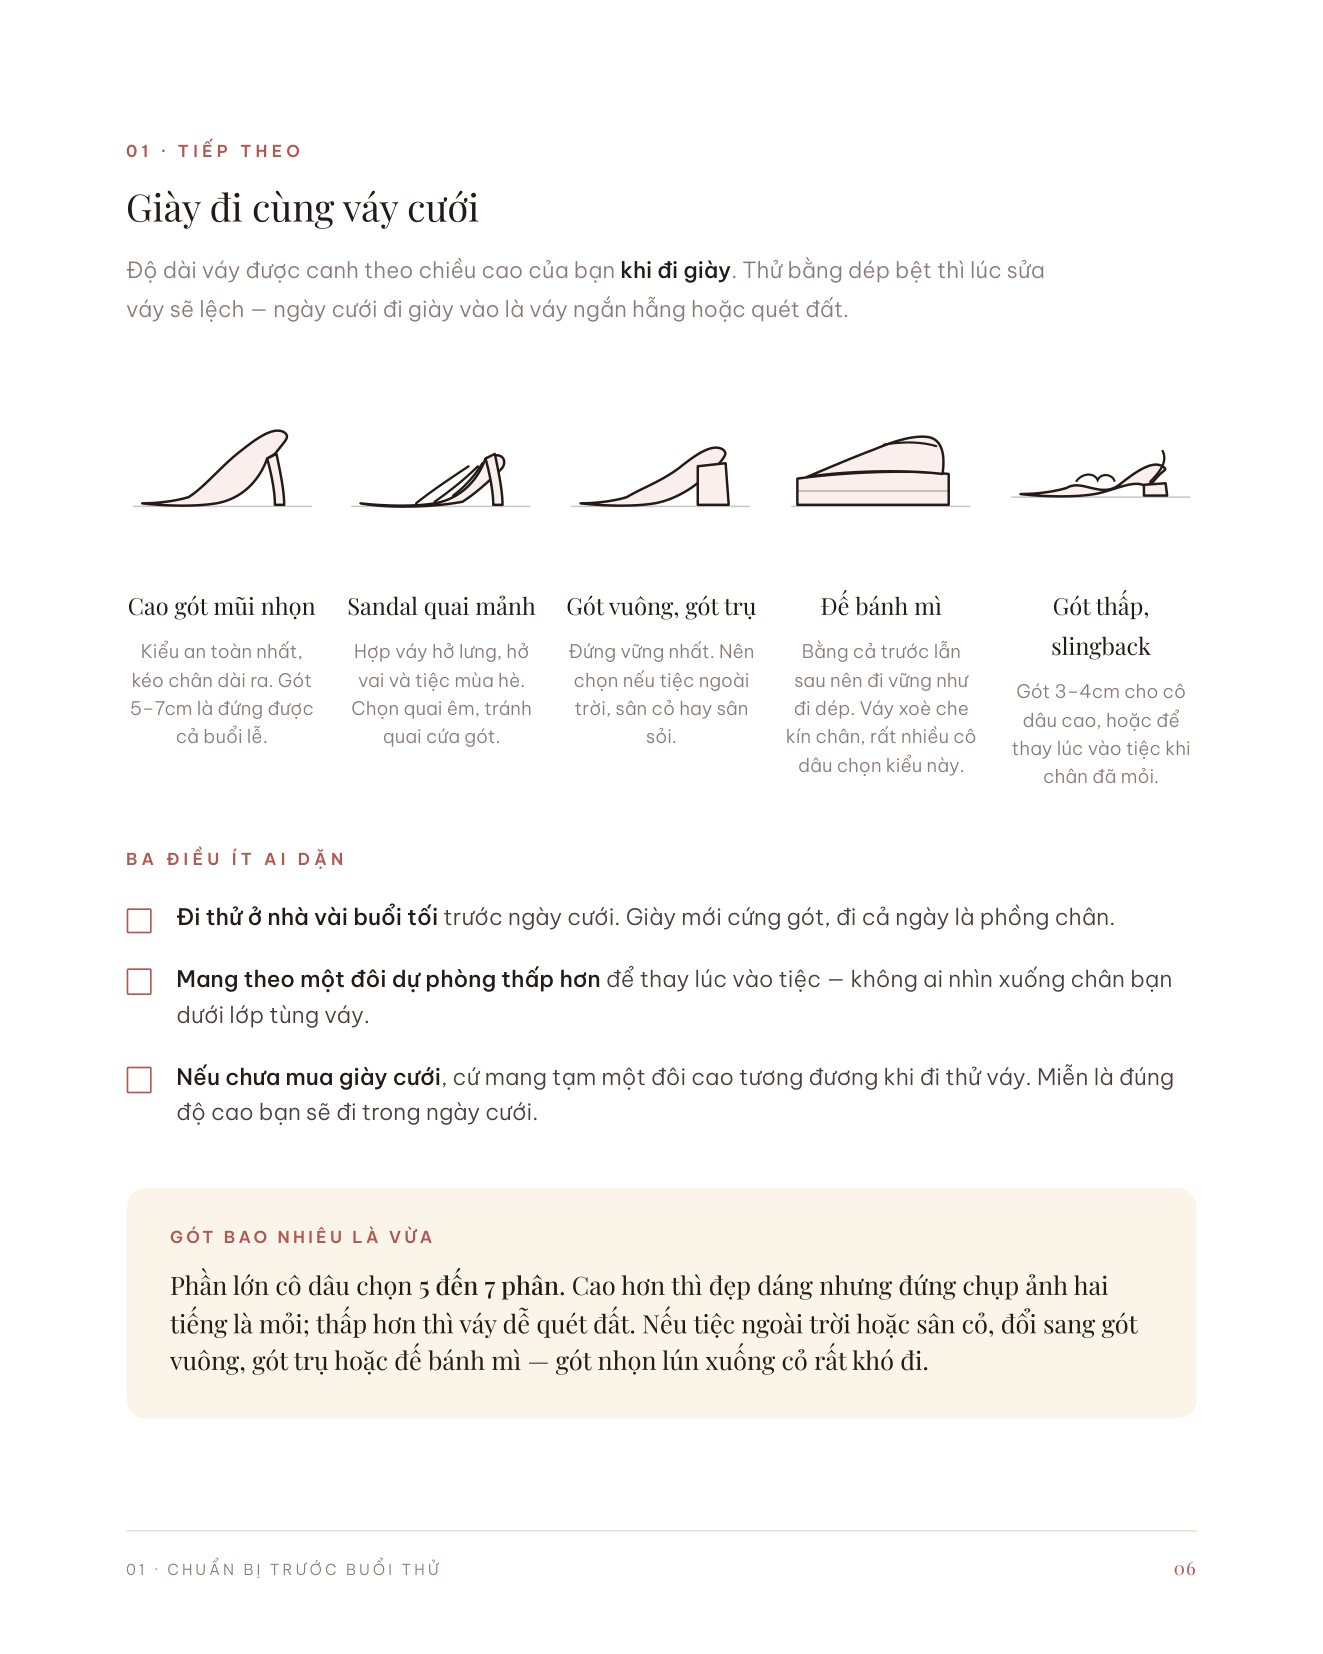
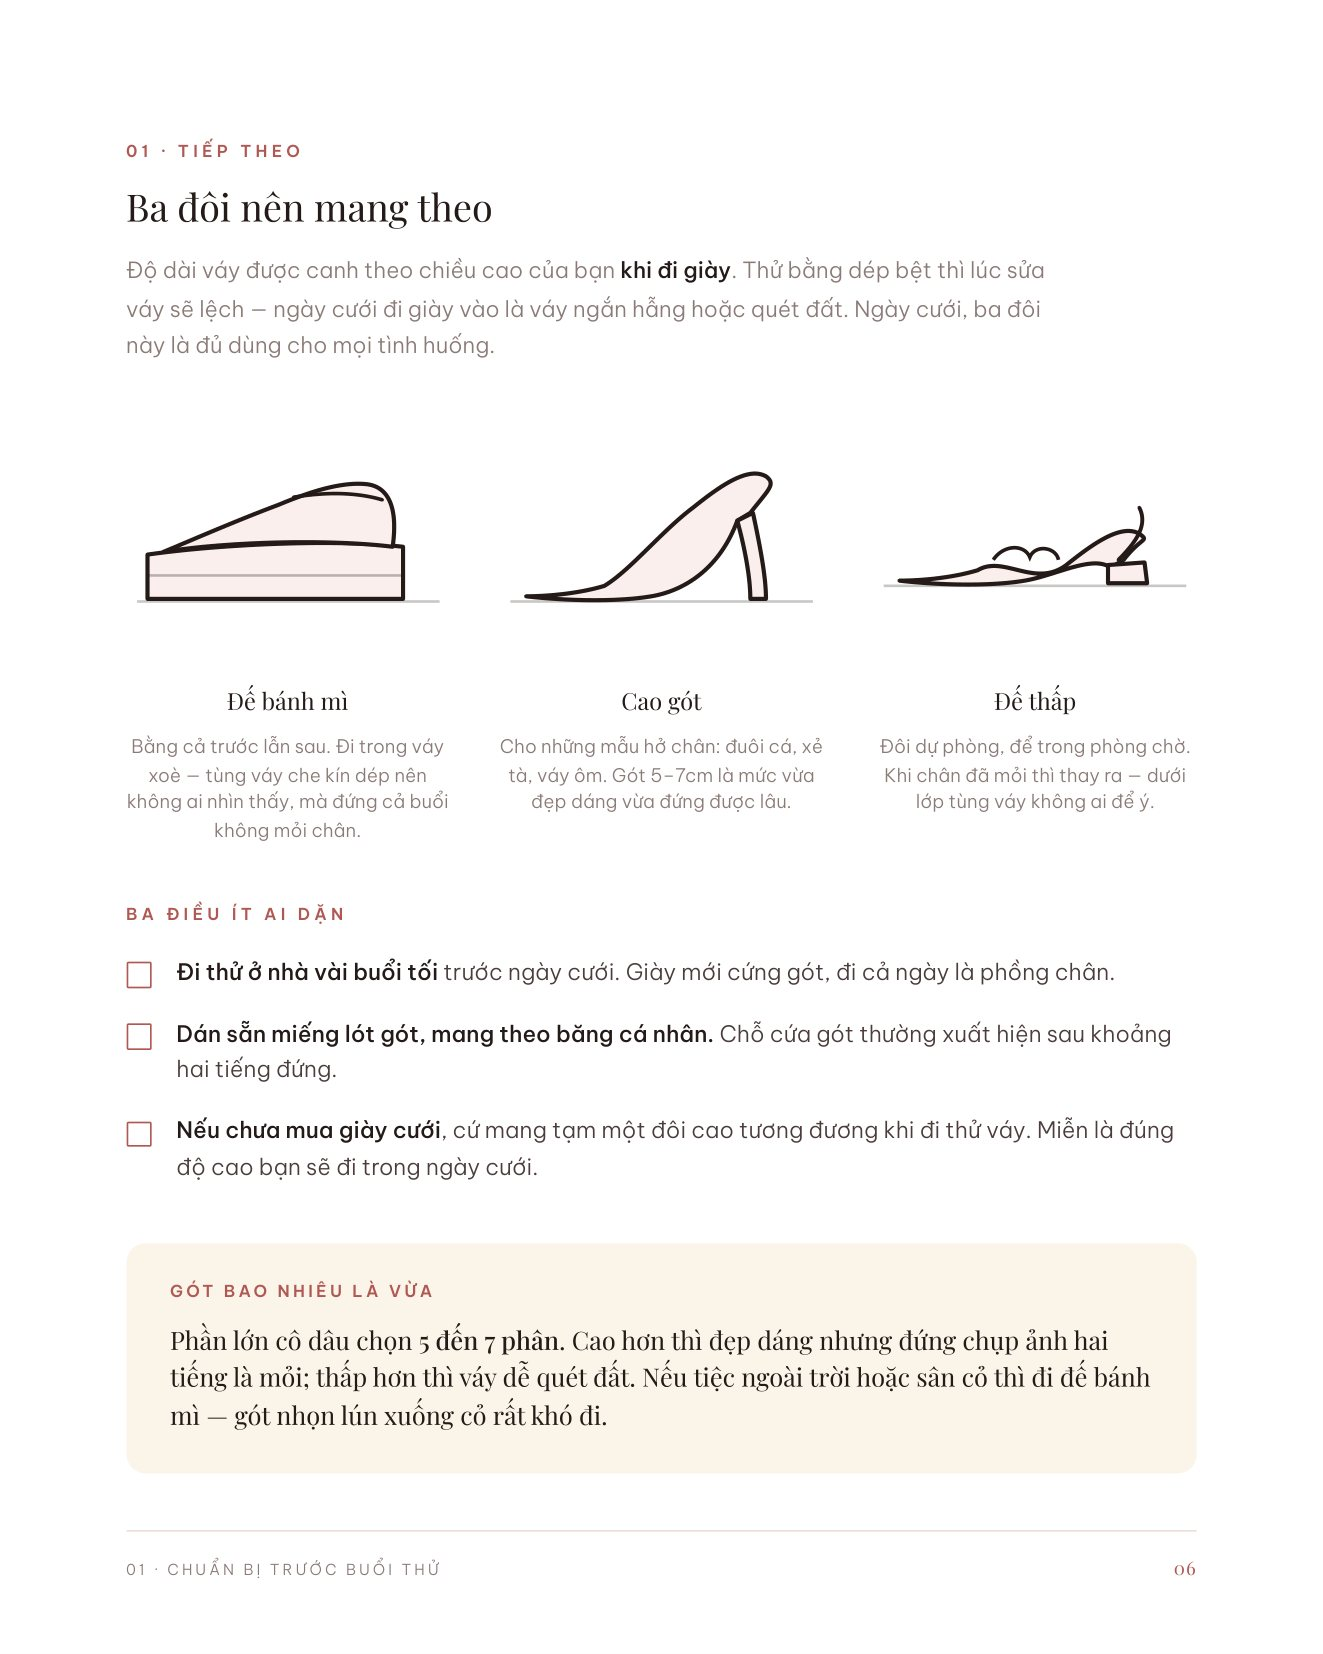
Dress Guide: rut con 3 doi giay theo dung cong dung chi Linh chot

diff --git a/dress-guide.html b/dress-guide.html
@@ -4,7 +4,7 @@
 <meta charset="utf-8">
 <meta name="viewport" content="width=device-width,initial-scale=1">
 <meta name="description" content="Cẩm nang tặng cô dâu: 7 điều cần biết trước khi chọn váy cưới — Dolinhanh Bridal.">
-<script>window.__ANH__=["dress-guide/t01.jpg?v=w5", "dress-guide/t02.jpg?v=w5", "dress-guide/t03.jpg?v=w5", "dress-guide/t04.jpg?v=w5", "dress-guide/t05.jpg?v=w5", "dress-guide/t06.jpg?v=w5", "dress-guide/t07.jpg?v=w5", "dress-guide/t08.jpg?v=w5", "dress-guide/t09.jpg?v=w5", "dress-guide/t10.jpg?v=w5", "dress-guide/t11.jpg?v=w5", "dress-guide/t12.jpg?v=w5", "dress-guide/t13.jpg?v=w5", "dress-guide/t14.jpg?v=w5", "dress-guide/t15.jpg?v=w5", "dress-guide/t16.jpg?v=w5", "dress-guide/t17.jpg?v=w5", "dress-guide/t18.jpg?v=w5", "dress-guide/t19.jpg?v=w5", "dress-guide/t20.jpg?v=w5"];window.__DIEM__=[{"p": 4, "x": 0.1734, "y": 0.205, "w": 0.1416, "h": 0.0173, "nhan": "Chuẩn bị trước buổi thử", "ten": "Đồ lót nào mặc được?", "mo": "Nguyên tắc chung: màu nude, không quai, không gọng to, không đường viền. Bốn kiểu trong hình đều dùng được cho gần như mọi mẫu váy. Phần lớn váy cưới đã có corset nâng và mút đệm ngực khâu sẵn — nhiều cô dâu chỉ mặc quần lót nude là đủ.", "anh": "dress-guide/hs-dolot.jpg?v=w5", "toi": 5}, {"p": 4, "x": 0.2255, "y": 0.2635, "w": 0.3537, "h": 0.0173, "nhan": "Chuẩn bị trước buổi thử", "ten": "Giày nào đi cùng váy cưới?", "mo": "Năm kiểu trên đều hợp váy cưới. Gót 5–7cm là mức phần lớn cô dâu chọn — đủ dáng mà vẫn đứng được cả buổi. Váy xoè che kín chân thì đế bánh mì là kiểu đi vững nhất. Tiệc ngoài trời hay sân cỏ nên tránh gót nhọn vì lún xuống cỏ rất khó đi. Chưa mua giày cưới thì mang tạm một đôi cao tương đương khi đi thử váy.", "anh": "dress-guide/hs-giay.jpg?v=w5", "toi": 6}, {"p": 4, "x": 0.3357, "y": 0.4127, "w": 0.1988, "h": 0.0173, "nhan": "Chuẩn bị trước buổi thử", "ten": "Vì sao lại là 5 mẫu?", "mo": "Năm mẫu vừa đủ để so bốn dáng cơ bản và thêm một mẫu “lạ” cho biết, mà không loạn. Gửi trước danh sách cho studio để váy được treo sẵn — đỡ mất ba mươi phút đầu buổi chỉ để đi tìm váy."}];</script>
+<script>window.__ANH__=["dress-guide/t01.jpg?v=w6", "dress-guide/t02.jpg?v=w6", "dress-guide/t03.jpg?v=w6", "dress-guide/t04.jpg?v=w6", "dress-guide/t05.jpg?v=w6", "dress-guide/t06.jpg?v=w6", "dress-guide/t07.jpg?v=w6", "dress-guide/t08.jpg?v=w6", "dress-guide/t09.jpg?v=w6", "dress-guide/t10.jpg?v=w6", "dress-guide/t11.jpg?v=w6", "dress-guide/t12.jpg?v=w6", "dress-guide/t13.jpg?v=w6", "dress-guide/t14.jpg?v=w6", "dress-guide/t15.jpg?v=w6", "dress-guide/t16.jpg?v=w6", "dress-guide/t17.jpg?v=w6", "dress-guide/t18.jpg?v=w6", "dress-guide/t19.jpg?v=w6", "dress-guide/t20.jpg?v=w6"];window.__DIEM__=[{"p": 4, "x": 0.1734, "y": 0.205, "w": 0.1416, "h": 0.0173, "nhan": "Chuẩn bị trước buổi thử", "ten": "Đồ lót nào mặc được?", "mo": "Nguyên tắc chung: màu nude, không quai, không gọng to, không đường viền. Bốn kiểu trong hình đều dùng được cho gần như mọi mẫu váy. Phần lớn váy cưới đã có corset nâng và mút đệm ngực khâu sẵn — nhiều cô dâu chỉ mặc quần lót nude là đủ.", "anh": "dress-guide/hs-dolot.jpg?v=w6", "toi": 5}, {"p": 4, "x": 0.2255, "y": 0.2635, "w": 0.3537, "h": 0.0173, "nhan": "Chuẩn bị trước buổi thử", "ten": "Ngày cưới nên mang mấy đôi?", "mo": "Ba đôi là đủ cho mọi tình huống. Đế bánh mì đi trong váy xoè — tùng váy che kín dép, đứng cả buổi không mỏi chân. Cao gót cho những mẫu hở chân như đuôi cá hay xẻ tà, gót 5–7cm là vừa. Và một đôi đế thấp để trong phòng chờ, khi chân đã mỏi thì thay ra.", "anh": "dress-guide/hs-giay.jpg?v=w6", "toi": 6}, {"p": 4, "x": 0.3357, "y": 0.4127, "w": 0.1988, "h": 0.0173, "nhan": "Chuẩn bị trước buổi thử", "ten": "Vì sao lại là 5 mẫu?", "mo": "Năm mẫu vừa đủ để so bốn dáng cơ bản và thêm một mẫu “lạ” cho biết, mà không loạn. Gửi trước danh sách cho studio để váy được treo sẵn — đỡ mất ba mươi phút đầu buổi chỉ để đi tìm váy."}];</script>
 </head>
 <body>
 <title>The Bride's Dress Guide</title>
